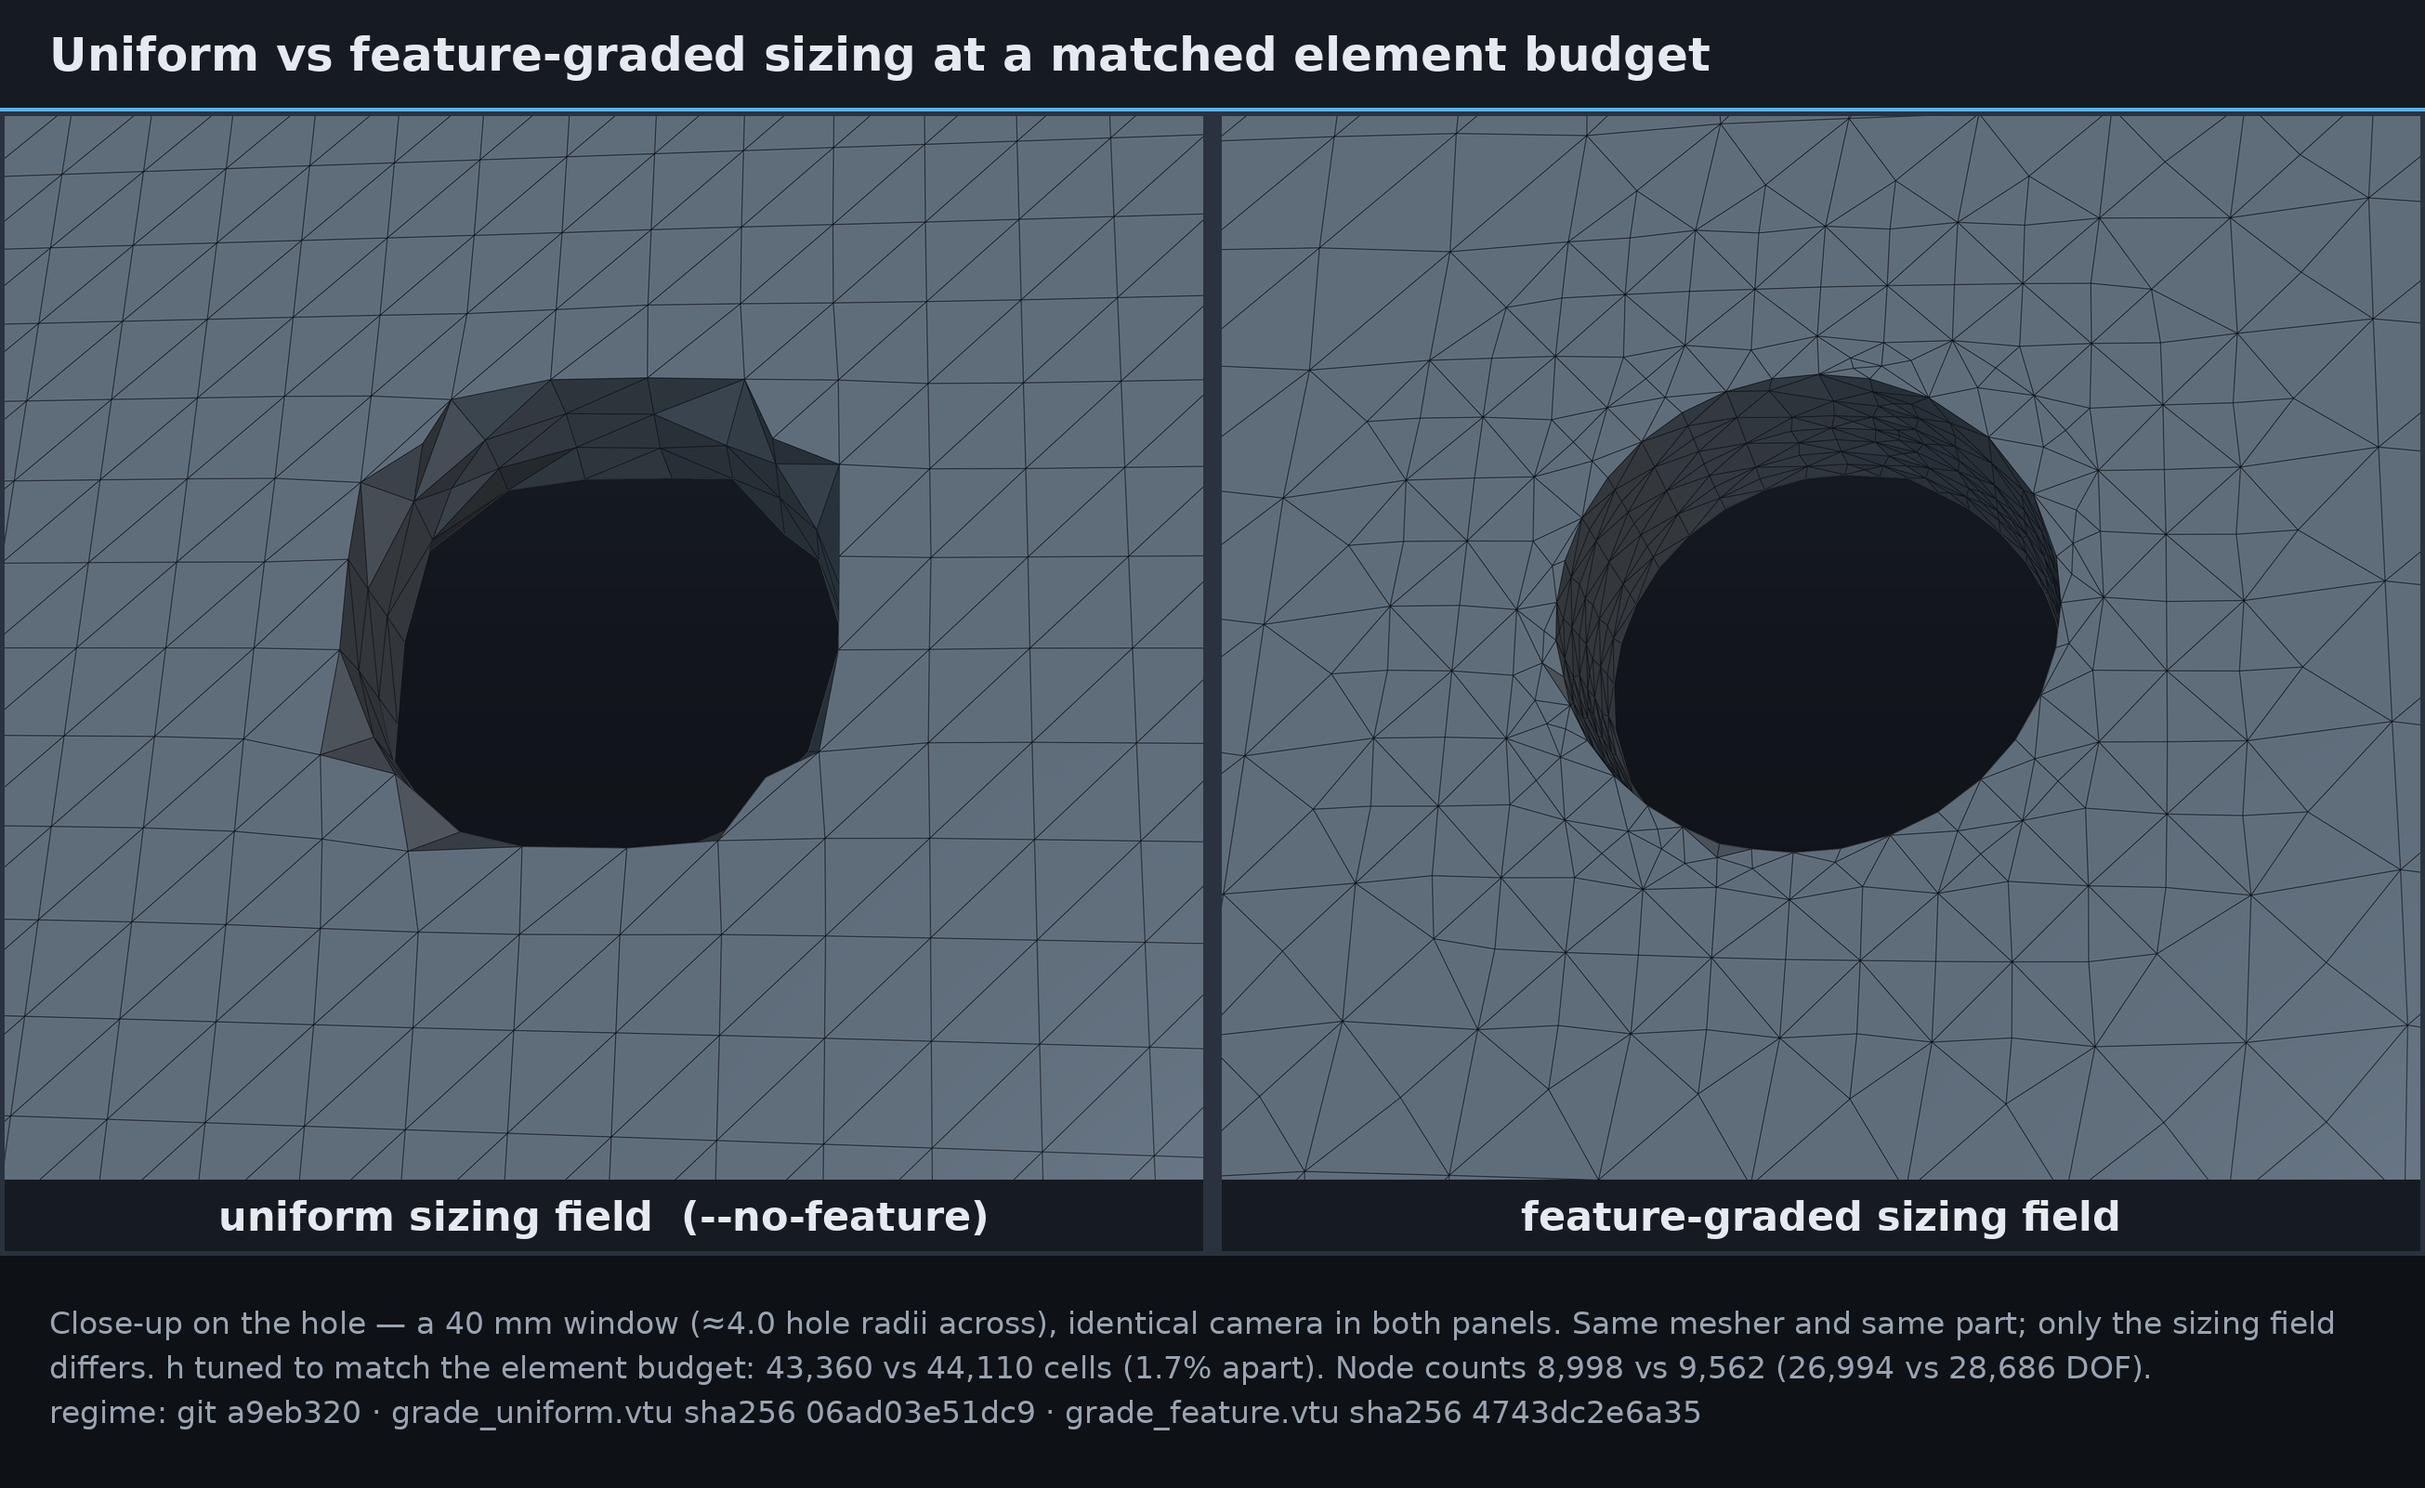
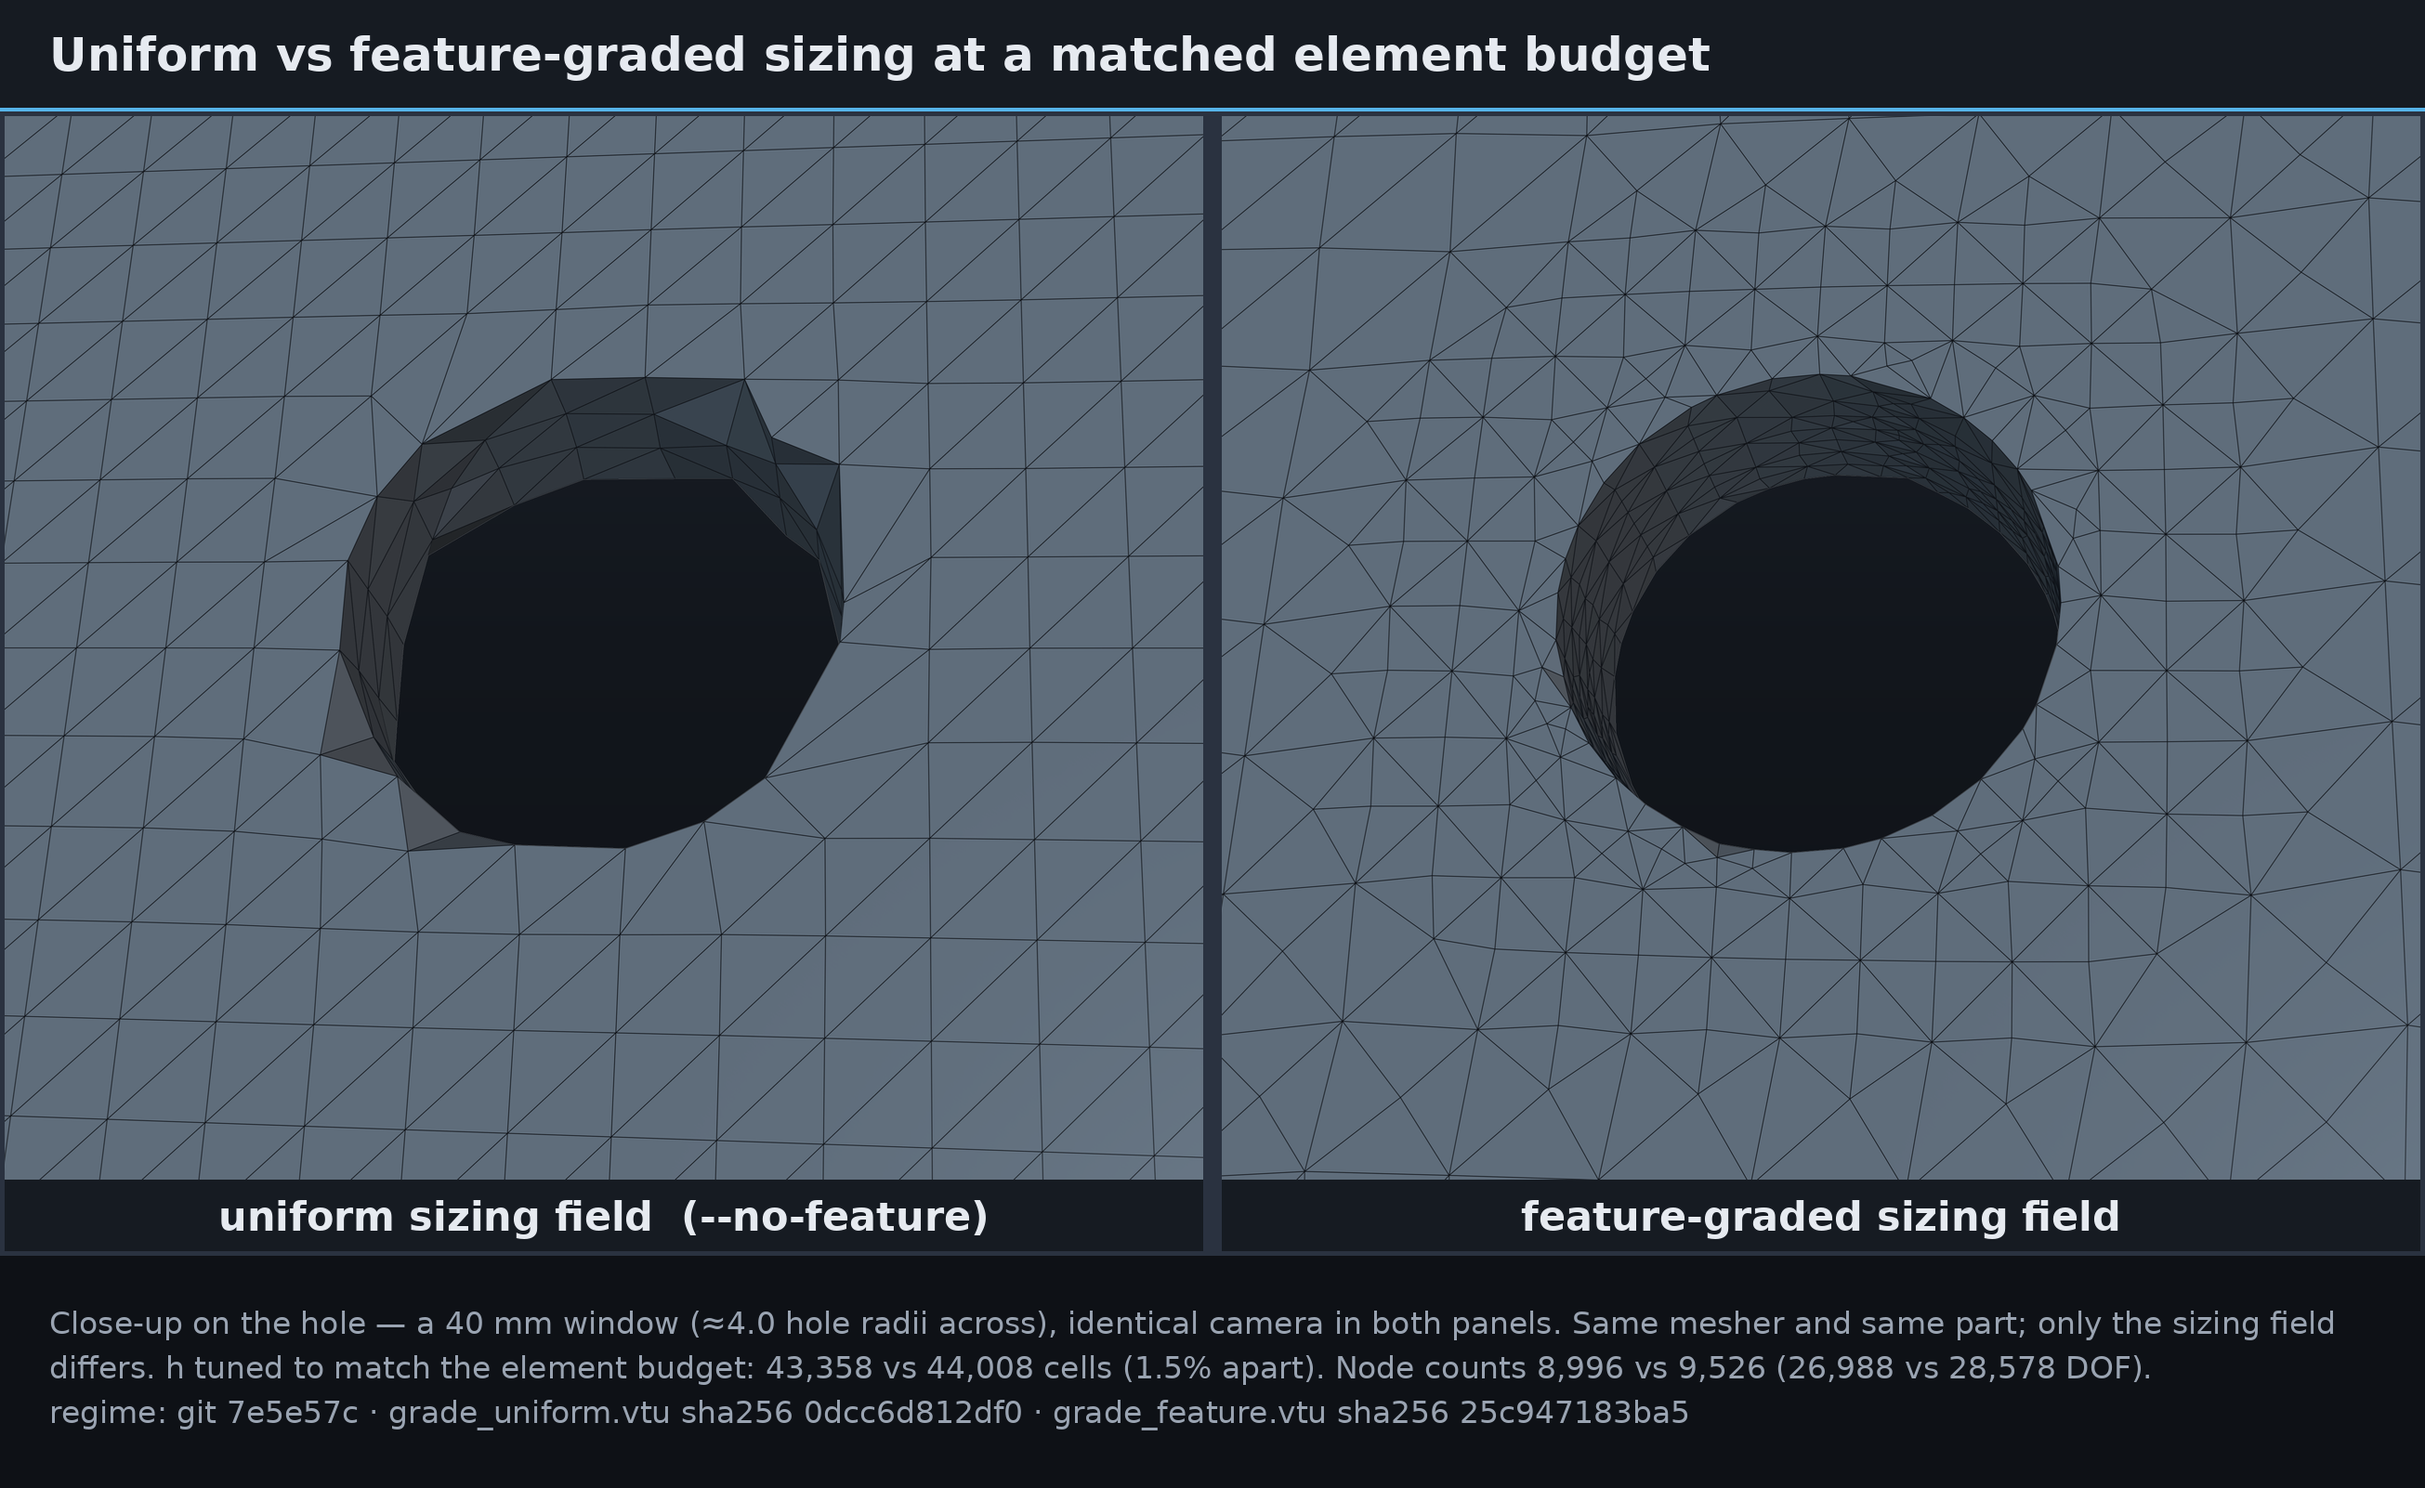
docs: republish the showcase on the conforming mesher
All 13 rendered assets re-shot from a clean tree at 7e5e57c (no +dirty
stamp) with the ADR-0035 mesher and the v5 advisor. New SHOWCASE
section 'Boundary conformity' states what the previous figures got
wrong and what the numbers are now, including the two limits that
remain: the Kuhn lattice cannot resolve a feature smaller than its cell,
and once every node is on the surface the residual is the h^2 kappa/8
sagitta of a straight facet across a curve.

Fidelity matrix re-measured at h=6mm on plate_hole and gains a boundary
node column, which is 0 to machine precision on graded, hybrid and
varyhedron. The sharp-edge column improves an order of magnitude
(graded 0.322 -> 0.0321 h) because crease nodes are pinned to the exact
edge curve instead of the nearest point of a face; normal p99 20.9 ->
4.54 deg.

Spectral A/B re-measured; OVERVIEW DOF counts refreshed from the new
manifest and the advisor budget chart is indexed. Suite 434/434.

diff --git a/docs/SHOWCASE.md b/docs/SHOWCASE.md
@@ -115,7 +115,7 @@ python scripts/render_showcase.py --only icecream_cone
 ![Mesher comparison](assets/showcase/compare_meshers.png)
 
 **`compare_meshers.png`** — the same plate at h = 3 mm through three meshers:
-`tet` (11,770 nodes / 53,760 cells), `graded` (36,104 / 177,560) and `hybrid`
+`tet` (11,770 nodes / 53,760 cells), `graded` (36,122 / 177,663) and `hybrid`
 (113,174 / 329,510), whose finer run includes conforming transition cells.
 All four panels share one camera on a 60 mm window across the hole (6 hole
 radii): at whole-plate scale the three topologies read as identical grey
@@ -136,11 +136,24 @@ samples under a hard attempt/storage ceiling; sharp mesh edges are classified
 independently by a ≥30° boundary dihedral. These are sampled directional
 distributions, not a Hausdorff-distance claim.
 
-| Mesher | mesh→BRep p99 / h | BRep→mesh p99 / h | sharp BRep edge→mesh p99 / h | normal p99 |
-|---|---:|---:|---:|---:|
-| graded | 0.0175 | 0.00392 | 0.322 | 20.9° |
-| hybrid | 0.00999 | 0.0201 | 0.311 | 4.67° |
-| varyhedron | 0.0174 | 0.00361 | 0.322 | 20.9° |
+The **node** column is the one a mesher fully controls: where it puts a
+boundary node. It is zero to machine precision on all three paths since
+[ADR-0035](decisions/0035-boundary-conformity.md). The mesh→BRep column stays
+non-zero because it also samples facet centroids and edge midpoints, and a
+straight facet spanning a curve always carries the chord sag h²κ/8 — a
+discretisation property of a linear-element mesh, not a placement error.
+
+| Mesher | boundary node → BRep p99 / h | mesh→BRep p99 / h | BRep→mesh p99 / h | sharp BRep edge→mesh p99 / h | normal p99 |
+|---|---:|---:|---:|---:|---:|
+| graded | **0** | 0.0112 | 0.00392 | 0.0321 | 4.54° |
+| hybrid | **0** | 0.00806 | 0.0125 | 0.0741 | 0.52° |
+| varyhedron | **0** | 0.00948 | 0.00339 | 0.0363 | 3.29° |
+
+Before ADR-0035 the same matrix read: graded mesh→BRep 0.0175 with sharp-edge
+0.322 and normal p99 20.9°, hybrid 0.00999 / 0.311 / 4.67°, varyhedron 0.0174 /
+0.322 / 20.9°. The sharp-edge column improved by an order of magnitude because
+crease nodes are now pinned to the exact edge curve instead of to the nearest
+point of a face.
 
 Source and executable provenance:
 [`mesher-fidelity-plate-hole-current.json`](../bench/results/mesher-fidelity-plate-hole-current.json).
@@ -204,6 +217,54 @@ logarithmic radial grading cut SCF error from **3.06%** to **0.70%**
 python scripts/render_showcase.py --only compare_grading
 ```
 
+## Boundary conformity
+
+Every boundary node sits on the exact BRep, not near it
+([ADR-0035](decisions/0035-boundary-conformity.md)). This section exists
+because the previous figures did not: a reader looking at them reported that
+round surfaces carried random defects and a curved-to-planar edge rendered as a
+chamfer, and both were real. The renders draw the mesh VTU verbatim
+(`extract_surface`, flat shading, element edges on), so there was nowhere for a
+defect to hide.
+
+Three structural causes, all removed:
+
+- fills snapped to the **tessellation** rather than the BRep, and two of the six
+  meshers were never given the exact oracle at all;
+- no mesher called `project_point_on_edge`, so a 90° crease was reconstructed
+  from the nearest point of a *face*, and varyhedron's 35 % "edge attraction"
+  blend chamfered the remaining 65 % by construction;
+- the snap's unsnap ladder silently kept partial projections, leaving nodes up
+  to 0.6 h off the CAD while reporting nothing.
+
+Boundary-node distance to the exact BRep, p99 as a fraction of h, at h = 8 mm:
+
+| Part | mesher | before | after |
+|---|---|---:|---:|
+| sphere | graded | 0.039 | **2.9e-15** |
+| cylinder | graded | 0.045 | **2.8e-15** |
+| plate_hole | tet | 0.218 | **0** |
+| icecream_cone | varyhedron | 0.039 | **3.7e-15** |
+
+Normal-angle p99 (mesh facet vs BRep normal) falls from 30° to 4.4° on the
+graded sphere and to 0.52° on the hybrid plate. No mesh in the fixture set
+ships an inverted cell any more: the sphere hybrid at h = 3 mm went from
+`quality_min` −0.837 to +0.0022, with the 38 cells still under the shape floor
+**reported** in the mesher note and in `diag --json` as
+`mesh.n_below_shape_floor` rather than passed off as clean.
+
+What a Fourier transform contributes here is spacing, not geometry: a closed
+crease chain is re-spaced by low-passing the deviation of its arclength
+parameters from a uniform chain, and every pin target is still the exact OCC
+curve projection. Fourier chooses *where along the curve* a node sits, never
+where the curve is.
+
+Two limits stay on the page because they are still true. The plain Kuhn tet
+lattice cannot resolve a feature smaller than its cell — plate_hole's 6 mm disc
+at h = 3 mm still leaves isolated nodes 0.22 h out — and once every node is on
+the surface, the residual mesh→BRep distance is the sagitta h²κ/8 of a straight
+facet across a curve, which is the floor of any linear-element mesh.
+
 ## Spectral sizing
 
 The sizing field the meshers consume is FFT-filtered before it is used
@@ -232,7 +293,7 @@ the default and again with `--no-spectral`:
 | Part | With spectral | Without |
 |---|---|---|
 | `sphere.step`, h = 8 mm (`mesh`) | 41 seeds from 51 geometry sources, 9,194 cells | 51 seeds, 9,194 cells |
-| `icecream_cone.step`, h = 8 mm (`diag`) | 43 denoised edge-curve sources; 27,399 cells, `quality_min` 0.02098, mesh→BRep p99/h 0.03878, peak VM 2.35535e7 Pa | 27,399 cells, 0.02098, 0.03878, 2.35535e7 Pa |
+| `icecream_cone.step`, h = 8 mm (`diag`) | 43 denoised edge-curve sources; 27,368 cells, `quality_min` 0.02098, boundary-node→BRep p99/h 3.7e-15, mesh→BRep p99/h 0.0364, peak VM 2.35799e7 Pa | 27,368 cells, 0.02098, 3.7e-15, 0.0364, 2.35799e7 Pa |
 
 So on fixtures whose curvature was already smooth, the filter is measurably a
 no-op in mesh output while emitting a smaller, denoised source set. The payoff

diff --git a/docs/assets/showcase/OVERVIEW.md b/docs/assets/showcase/OVERVIEW.md
@@ -7,19 +7,20 @@ wall time, peak von Mises, exact commands) is in
 
 | File | What it shows | Source data / command |
 |---|---|---|
-| `hero.png` | Flagship render: `plate_hole` von Mises across the whole plate from a low oblique angle (h = 3 mm, 106,158 DOF, warp ×5000, full-field range) | solve VTU from `polymesh solve` (graded mesher); `python scripts/render_showcase.py --only hero` |
-| `gallery_plate_hole.png` | Plate with central hole, von Mises + displacement; grading concentrated at the riser (h = 3 mm, 35,386 nodes / 174,234 elems, 106,158 DOF) | solve VTU, `tests/fixtures/parts/plate_hole.step`; `render_showcase.py --only plate_hole` |
-| `gallery_cantilever.png` | End-loaded cantilever, linear bending stress peaking at the clamped root (h = 30 mm, 8,761 / 44,832, 26,283 DOF) | solve VTU, `tests/fixtures/parts/cantilever.step`; `render_showcase.py --only cantilever` |
-| `gallery_cylinder.png` | Curved-wall solid from STEP with curvature-driven sizing (h = 12 mm, 8,823 / 42,443, 26,469 DOF) | solve VTU, `tests/fixtures/parts/cylinder.step`; `render_showcase.py --only cylinder` |
-| `gallery_sphere.png` | Closed curved B-rep; stair-cased Cartesian fill with feature-graded skin (h = 8 mm, 4,646 / 22,698, 13,938 DOF) | solve VTU, `tests/fixtures/parts/sphere.step`; `render_showcase.py --only sphere` |
-| `gallery_icecream_cone.png` | Watertight fused round cone + spherical scoop, solved from STEP (h = 10 mm, 3,250 nodes / 15,301 elements, 9,750 DOF) | solve VTU, `tests/fixtures/parts/icecream_cone.step`; `render_showcase.py --only icecream_cone` |
-| `compare_meshers.png` | Same plate at h = 3 mm through `tet` (11,770 nodes / 53,760 cells) \| `graded` (35,386 / 174,234) \| `hybrid` (113,088 / 329,094), labeled tiles | mesh-only VTUs; `render_showcase.py --only compare_meshers` |
-| `compare_grading.png` | Uniform (`--no-feature`, h = 3.8 mm) vs feature-graded (h = 5.6 mm) sizing at a **matched element budget** — 43,360 vs 45,308 cells (4.5% apart), 26,988 vs 29,055 DOF | mesh-only VTUs; `render_showcase.py --only compare_grading` |
+| `hero.png` | Flagship render: `plate_hole` von Mises across the whole plate from a low oblique angle (h = 3 mm, 108,366 DOF, warp ×5000, full-field range) | solve VTU from `polymesh solve` (graded mesher); `python scripts/render_showcase.py --only hero` |
+| `gallery_plate_hole.png` | Plate with central hole, von Mises + displacement; grading concentrated at the riser (h = 3 mm, 108,366 DOF) | solve VTU, `tests/fixtures/parts/plate_hole.step`; `render_showcase.py --only plate_hole` |
+| `gallery_cantilever.png` | End-loaded cantilever, linear bending stress peaking at the clamped root (h = 30 mm, 26,283 DOF) | solve VTU, `tests/fixtures/parts/cantilever.step`; `render_showcase.py --only cantilever` |
+| `gallery_cylinder.png` | Curved-wall solid from STEP with curvature-driven sizing (h = 12 mm, 26,724 DOF) | solve VTU, `tests/fixtures/parts/cylinder.step`; `render_showcase.py --only cylinder` |
+| `gallery_sphere.png` | Closed curved B-rep; every boundary node on the exact BRep (ADR-0035), feature-graded skin (h = 8 mm, 15,135 DOF) | solve VTU, `tests/fixtures/parts/sphere.step`; `render_showcase.py --only sphere` |
+| `gallery_icecream_cone.png` | Watertight fused round cone + spherical scoop, solved from STEP (h = 10 mm, 10,605 DOF) | solve VTU, `tests/fixtures/parts/icecream_cone.step`; `render_showcase.py --only icecream_cone` |
+| `compare_meshers.png` | Same plate at h = 3 mm through `tet` (35,310 DOF) \| `graded` (108,366) \| `hybrid` (339,522), labeled tiles | mesh-only VTUs; `render_showcase.py --only compare_meshers` |
+| `compare_grading.png` | Uniform (`--no-feature`, h = 3.8 mm) vs feature-graded (h = 5.6 mm) sizing at a **matched element budget** — 26,988 vs 28,578 DOF (5.9% apart) | mesh-only VTUs; `render_showcase.py --only compare_grading` |
 | `bench_dof_time.png` | D6 L-domain: 6384 → 1248 DOF and 2.762 s → 0.227 s vs the frozen uniform-tet10 baseline at matched energy accuracy | [`bench/results/polymesh-d6-l-domain.json`](../../../bench/results/polymesh-d6-l-domain.json); `python scripts/plot_benchmarks.py` |
 | `bench_tier1.png` | Relative error vs tolerance on the five closed-form Tier-1 cases (Lamé, Timoshenko, Kirsch, Goodier, L-domain) | [`bench/reports/p1-gate1-convergence.md`](../../../bench/reports/p1-gate1-convergence.md); `plot_benchmarks.py` |
 | `bench_mms.png` | Manufactured-solution energy-norm convergence: frozen P1 elements at 0.997 / 0.997 / 2.000 / 2.000 vs theory 1/1/2/2, hierarchical p-basis at 1.02 / 1.99 / 2.98 / 3.98 vs theory 1/2/3/4 | [`docs/progress.md`](../../progress.md) + the GATE-1 convergence report; `plot_benchmarks.py` |
 | `architecture.png` | Dark-theme pipeline diagram: STEP → features → sizing field → hybrid meshers → FE+VEM assembly → solve → ZZ estimate → hp-adapt loop → VTU | drawn programmatically in the Studio palette; `render_showcase.py --only architecture` |
 | `gui_studio.png` | PolyMesh Studio with a solved part: viewport, study setup, results panel (stress / deflection / η) | captured in-app via F12 or `POLYMESH_GUI_SHOT=<abs path>`; see [`../../SHOWCASE.md#gui`](../../SHOWCASE.md#gui) |
+| `bench_advisor_budget.png` | Advisor DOF-budget sweep: predicted DOF and chosen action across 21 `--advisor-max-dof` caps on the v5 model | [`bench/results/advisor-budget-sweep.json`](../../../bench/results/advisor-budget-sweep.json); `plot_benchmarks.py --only advisor_budget` |
 | `manifest.json` | Provenance record for every image above (schema in [`../../SHOWCASE.md`](../../SHOWCASE.md)) | written by `render_showcase.py --all` |
 
 Every stress render states its displacement warp factor, the colour range, the
